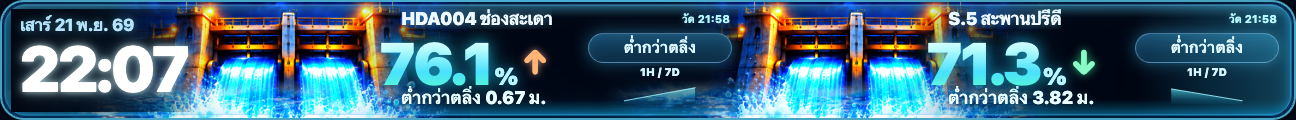
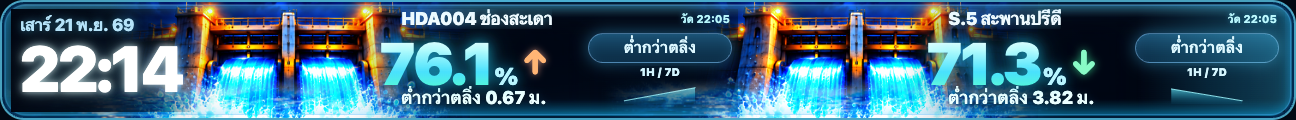
fix(water): reject ambiguous duplicate observations and expose accessible MSL

Changed region(s): [[0.0617, 0.35, 0.1543, 0.8], [0.9259, 0.1, 0.9877, 0.2], [0.5247, 0.1, 0.5556, 0.2]]

diff --git a/v2/water-luxury-live.js b/v2/water-luxury-live.js
@@ -55,11 +55,20 @@ function observedDirection(st,now=Date.now()){
  const vals=st.historyReading?.trendPoints,times=st.historyReading?.trendObservedAt;
  if(!Array.isArray(vals)||!Array.isArray(times)||vals.length!==times.length||
     vals.length<2||vals.length>30)return unknown;
- const seen=new Set();
- const points=vals.map((level,i)=>({level,ms:Date.parse(times[i])}))
-  .filter(p=>Number.isFinite(p.level)&&Number.isFinite(p.ms)&&
-   p.ms<=now+120000&&p.ms<=latest+120000&&p.ms>=latest-7*86400000&&!seen.has(p.ms)&&seen.add(p.ms))
-  .sort((a,b)=>a.ms-b.ms);
+ // Identical repeated timestamps may be collapsed. Conflicting values at the
+ // SAME observation time cannot support a trustworthy public direction arrow.
+ const byTime=new Map(),points=[];
+ for(let i=0;i<vals.length;i++){
+  const p={level:vals[i],ms:Date.parse(times[i])};
+  if(!Number.isFinite(p.level)||!Number.isFinite(p.ms)||p.ms>now+120000||
+      p.ms>latest+120000||p.ms<latest-7*86400000)continue;
+  if(byTime.has(p.ms)){
+   if(Math.abs(byTime.get(p.ms)-p.level)>1e-6)return unknown;
+   continue;
+  }
+  byTime.set(p.ms,p.level);points.push(p);
+ }
+ points.sort((a,b)=>a.ms-b.ms);
  const last=points.at(-1);
  if(!last||Math.abs(last.ms-latest)>15*60000||Math.abs(last.level-st.value)>.05)return unknown;
  // Avoid describing a multi-day gap as a short-term rising/falling water level.
@@ -69,6 +78,9 @@ function observedDirection(st,now=Date.now()){
  if(delta>.015)return {arrow:'↑',cls:'up',description:'ระดับน้ำสูงขึ้น '+Math.abs(delta).toFixed(2)+' เมตร ระหว่างค่าที่ตรวจวัด'};
  if(delta<-.015)return {arrow:'↓',cls:'down',description:'ระดับน้ำลดลง '+Math.abs(delta).toFixed(2)+' เมตร ระหว่างค่าที่ตรวจวัด'};
  return {arrow:'→',cls:'flat',description:'ระดับน้ำค่อนข้างคงที่ ระหว่างค่าที่ตรวจวัด'};
+}
+function escapeMarkup(v){
+ return String(v??'').replace(/[&<>"']/g,c=>({'&':'&amp;','<':'&lt;','>':'&gt;','"':'&quot;',"'":'&#39;'}[c]));
 }
 function renderStation(st){
  const target=document.querySelector(st.el);if(!target)return;
@@ -88,12 +100,16 @@ function renderStation(st){
   st.status==='historical'?'ข้อมูลเก่า':'รอข้อมูล';
  const originalMsl=Number.isFinite(st.value)?st.value.toFixed(2)+' m MSL':'ไม่มีค่า m MSL';
  const details=originalMsl+' · '+st.observed+' · สัดส่วนช่วงพื้นอ้างอิงถึงตลิ่งต่ำสุด ไม่ใช่ความเสี่ยงน้ำท่วม';
+ const accessible=usable?shown+' เปอร์เซ็นต์ช่วงพื้นอ้างอิงถึงตลิ่งต่ำสุด · ระดับน้ำอ้างอิงเดิม '+originalMsl+' · '+st.observed+' · '+gapText:
+  'ไม่พร้อมแสดงเปอร์เซ็นต์ · '+(st.status==='historical'?'ข้อมูลเก่า · ':'')+
+  'ระดับน้ำที่เคยวัด '+originalMsl+' · '+st.observed;
+ const safeDetails=escapeMarkup(details),safeAccessible=escapeMarkup(accessible);
  const wide=usable&&pct>=100?' wide-pct':'';
  target.innerHTML=`<div class="station-card"><div class="art-zone"><canvas class="water-canvas" width="420" height="210" aria-label="ภาพการไหลประกอบ ไม่ใช่สถานะประตูจริง"></canvas></div>
- <div class="info"><div class="station-name"><span>${st.name}</span><small>HII REFERENCE</small><span class="observed-stamp" title="${st.observed}">${observedShort}</span></div>
- <div class="reading-row"><div class="big-level${wide}" title="${details}" aria-label="${usable?shown+' เปอร์เซ็นต์ช่วงพื้นอ้างอิงถึงตลิ่งต่ำสุด': 'ไม่พร้อมแสดงเปอร์เซ็นต์'}">${shown}<span class="unit" title="${details}">%</span></div><span class="preview-trend ${direction.cls}" title="${direction.description}" aria-label="${direction.description}">${direction.arrow}</span></div>
+ <div class="info"><div class="station-name"><span>${escapeMarkup(st.name)}</span><small>HII REFERENCE</small><span class="observed-stamp" title="${escapeMarkup(st.observed)}">${escapeMarkup(observedShort)}</span></div>
+ <div class="reading-row"><div class="big-level${wide}" title="${safeDetails}" aria-label="${safeAccessible}">${shown}<span class="unit" title="${safeDetails}">%</span></div><span class="preview-trend ${direction.cls}" title="${escapeMarkup(direction.description)}" aria-label="${escapeMarkup(direction.description)}">${direction.arrow}</span></div>
  <div class="status-trend"><span class="badge ${badge.style}">${badge.text}</span><div class="trend-box"><div class="trend-title" title="${coverage.description}">${coverage.label}</div>${sparkSvg(safePath,st.id,coverage.description)}</div></div>
- <div class="reading-detail"><div class="distance-to-bank" title="${details}">${gapText}</div></div>
+ <div class="reading-detail"><div class="distance-to-bank" title="${safeDetails}">${escapeMarkup(gapText)}</div></div>
  </div></div>`;
 }
 function historyPath(st,now=Date.now()){

diff --git a/docs/work-orders/WO-WATER-PERCENT-PRODUCTION-20261121.md b/docs/work-orders/WO-WATER-PERCENT-PRODUCTION-20261121.md
@@ -17,12 +17,13 @@ Owner explicitly approved the **original production Water visual plus percent/ar
 - Same-datum fraction: 100*(levelMsl-groundMsl)/(bankM-groundMsl), existing bankIntervalPercent keeps the below-ground display guard; over 100% is never clamped. Units: % of ground-to-bank interval, not capacity, flood probability or official warning.
 - Physical below/at/above gap in metres: bankM-levelMsl. Staff-accessible original m MSL preserved as title/accessible metadata; observed time displayed explicitly.
 - Only show a fresh dominant percent when station status ok, observedAt valid/fresh within existing 3h rule, and bank/ground valid; otherwise —% and historic/missing cue.
+- A screen-reader-accessible label includes the original m MSL and observation time; new attribute text is HTML-escaped. Conflicting same-timestamp series values fail closed to unknown, exact duplicate records are collapsed without order-dependence.
 - Direction arrow is derived, never guessed: verify latest trend timestamp within 15 minutes of current observation, level within 0.05 m; prior distinct measurement between 30 minutes and 6 hours earlier. Up/down threshold 0.015 m. Otherwise —. Verified history path drawing remains exactly as before.
 - No new flood alerts, emergency actions, physical gauge inference, storage/sluice capacity metrics or fabricated sensor readings.
 
 ## Verification / release
 
-- Local Node focused 18/18; full Node 557/557 (after scoped cache test refresh).
+- Local Node focused 18/18; full Node 558/558 (after scoped cache test refresh).
 - Native Chromium 432x40 and DPR3 screenshot, six explicitly SIMULATED statuses (sample/near/at/above/stale/missing); original gate canvas animates and sparkline remains, no external API calls, no page JS errors, every reading/secondary label fits bounds and arrows do not overlap graph.
 - Chrome screenshots captured by actual source renderer with mocked UthApiClient, NOT operational measurements.
 - Gate: exact-SHA independent reviewer, GitHub hosted PR CI, expected-head merge, Pages built SHA, production HTTP byte check and public Chrome smoke without mocks. Physical LED panel and Safari verification remain separate limitations; revert targeted PR if unanticipated issues.
